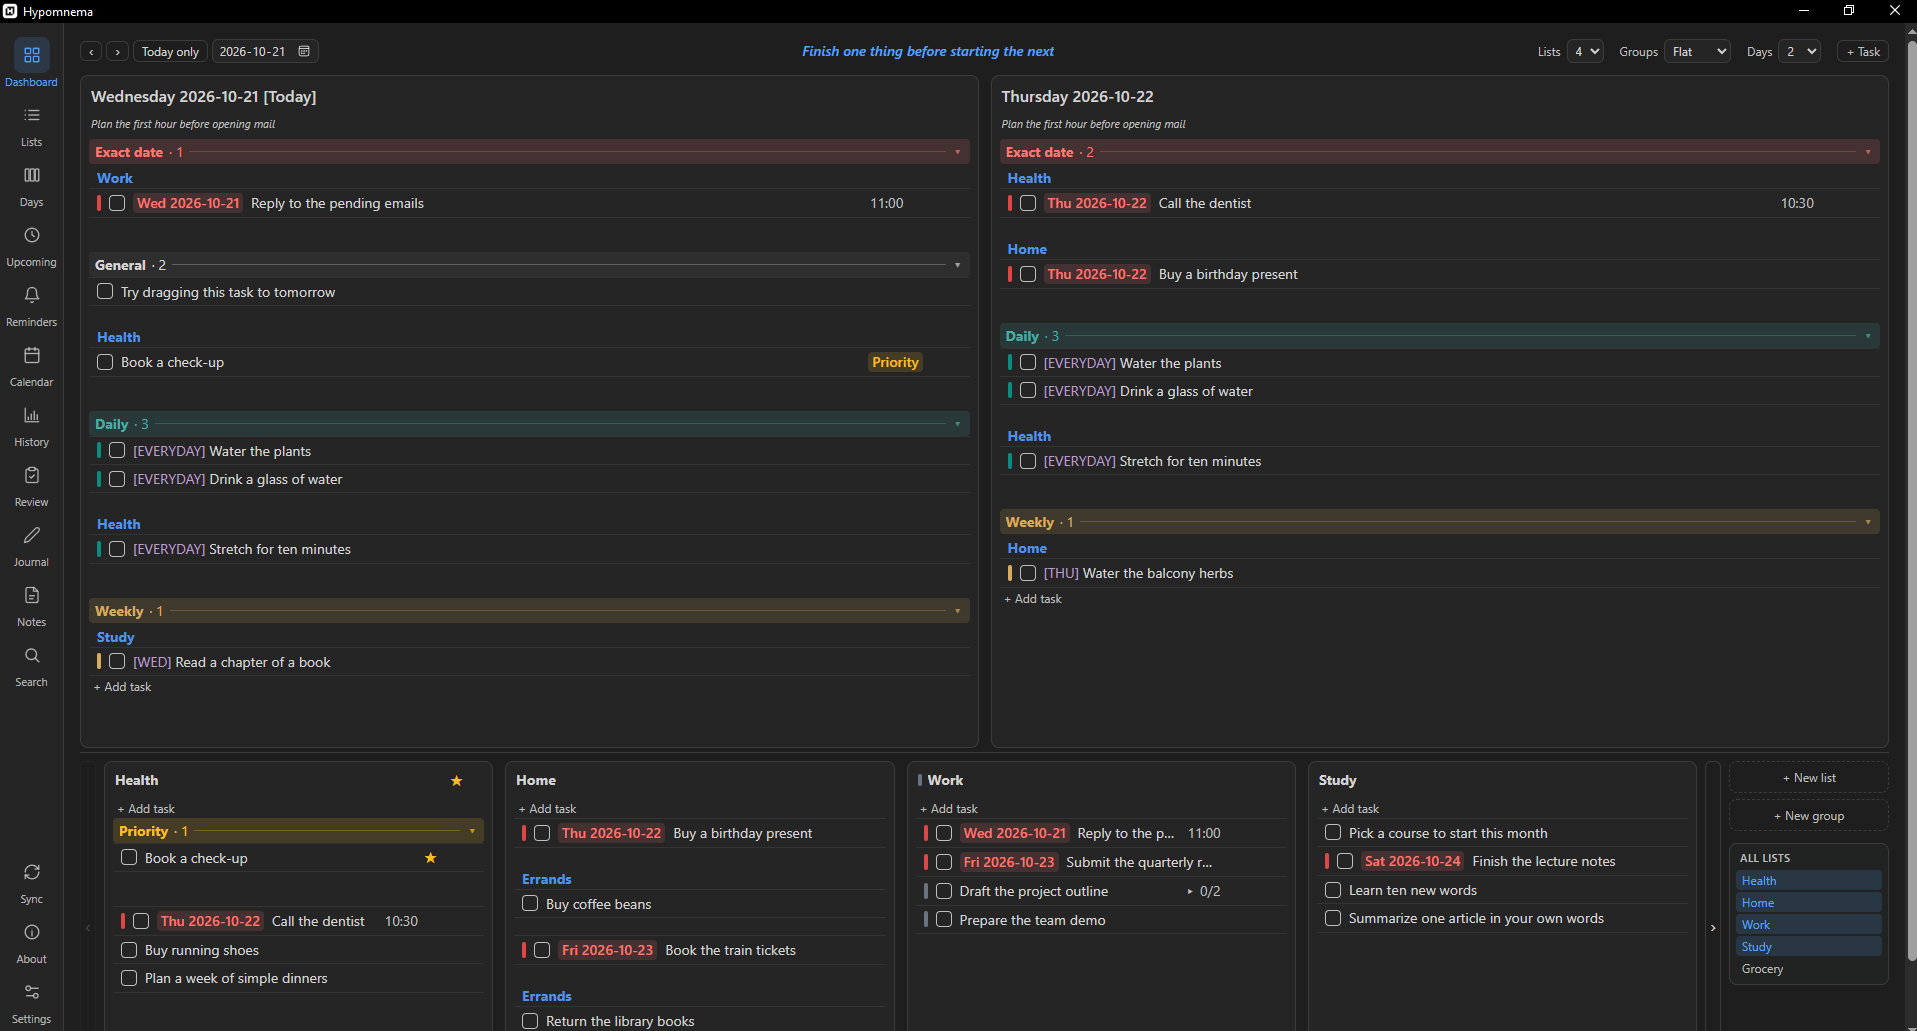
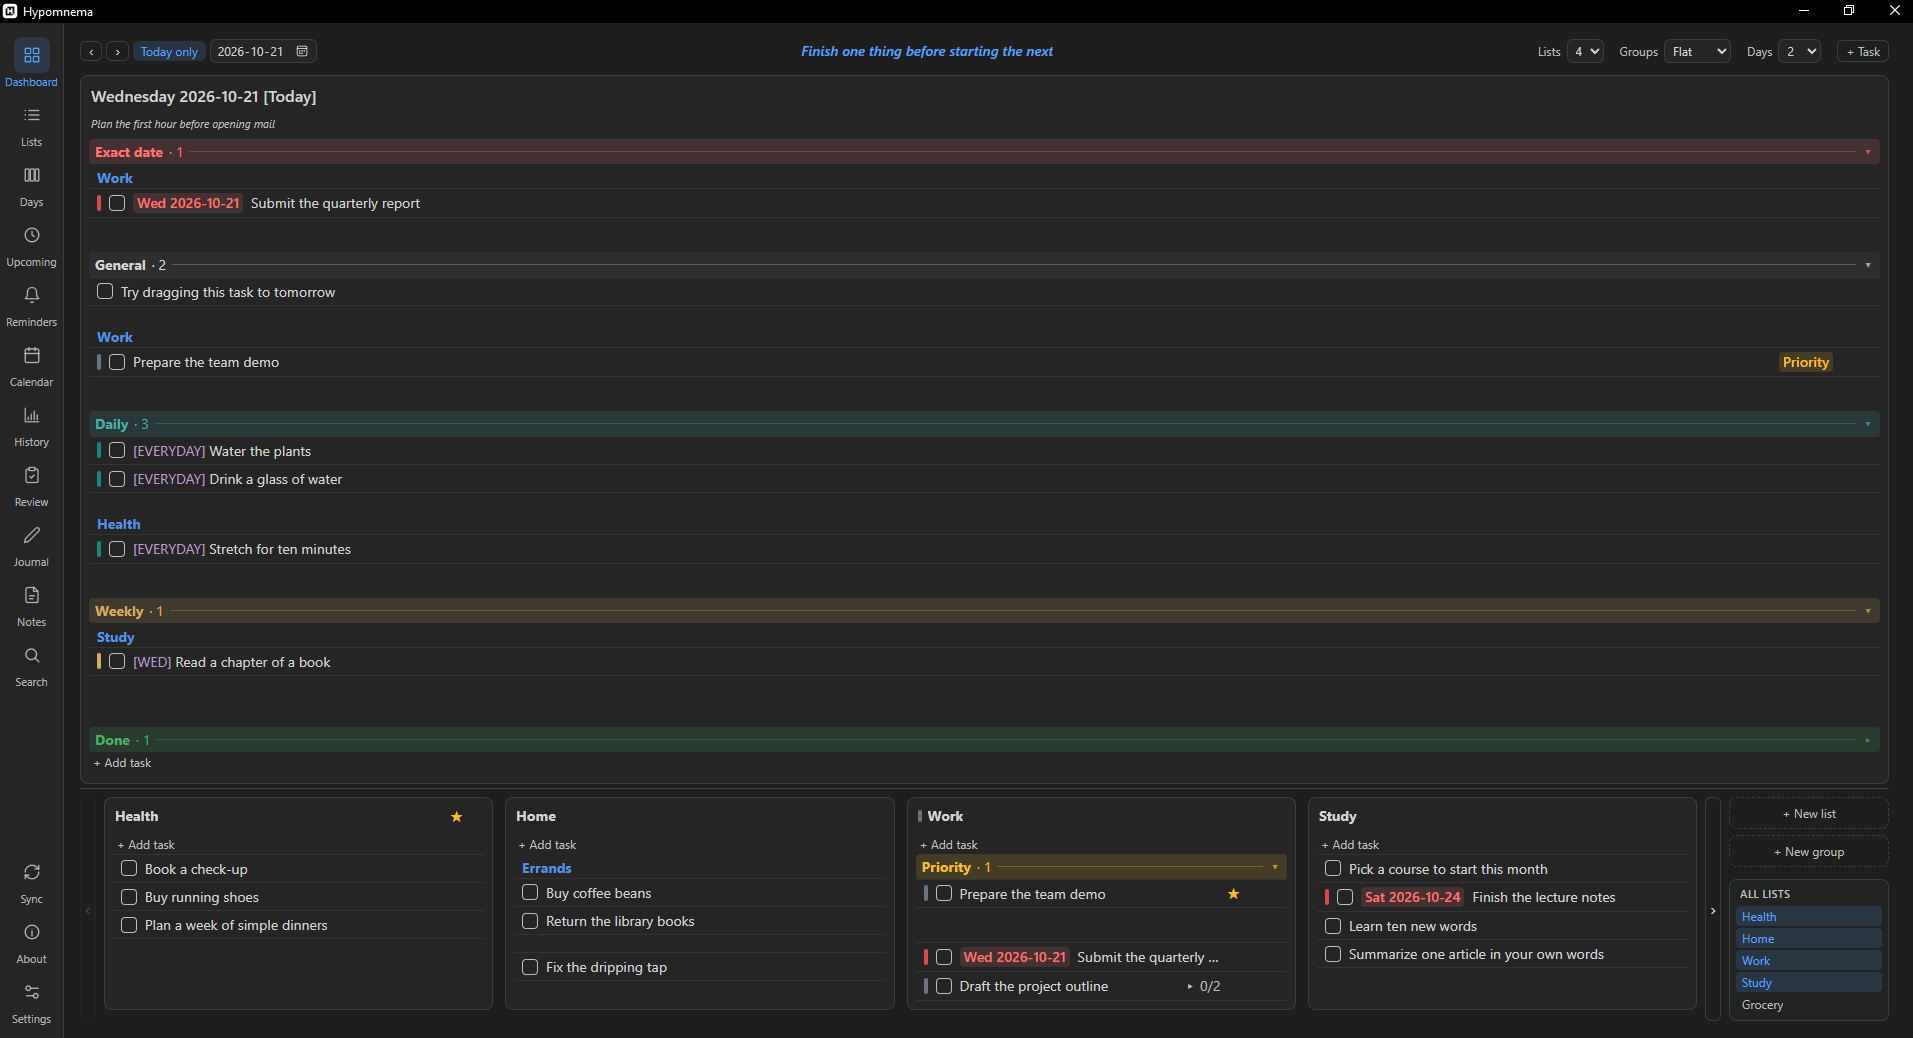
README: wordmark with the tagline in the About dialog's fonts, light and dark

diff --git a/README.md b/README.md
@@ -2,7 +2,12 @@
   <img src="src-tauri/icons/128x128@2x.png" width="128" height="128" alt="Hypomnema">
 </p>
 
-<h1 align="center">Hypomnema</h1>
+<h1 align="center">
+  <picture>
+    <source media="(prefers-color-scheme: dark)" srcset="docs/wordmark-dark.svg">
+    <img src="docs/wordmark-light.svg" width="280" alt="Hypomnema - Your mind. Organized.">
+  </picture>
+</h1>
 
 <p align="center">A weekly task planner, a daily journal and a Markdown knowledge base in one local-first window.</p>
 
